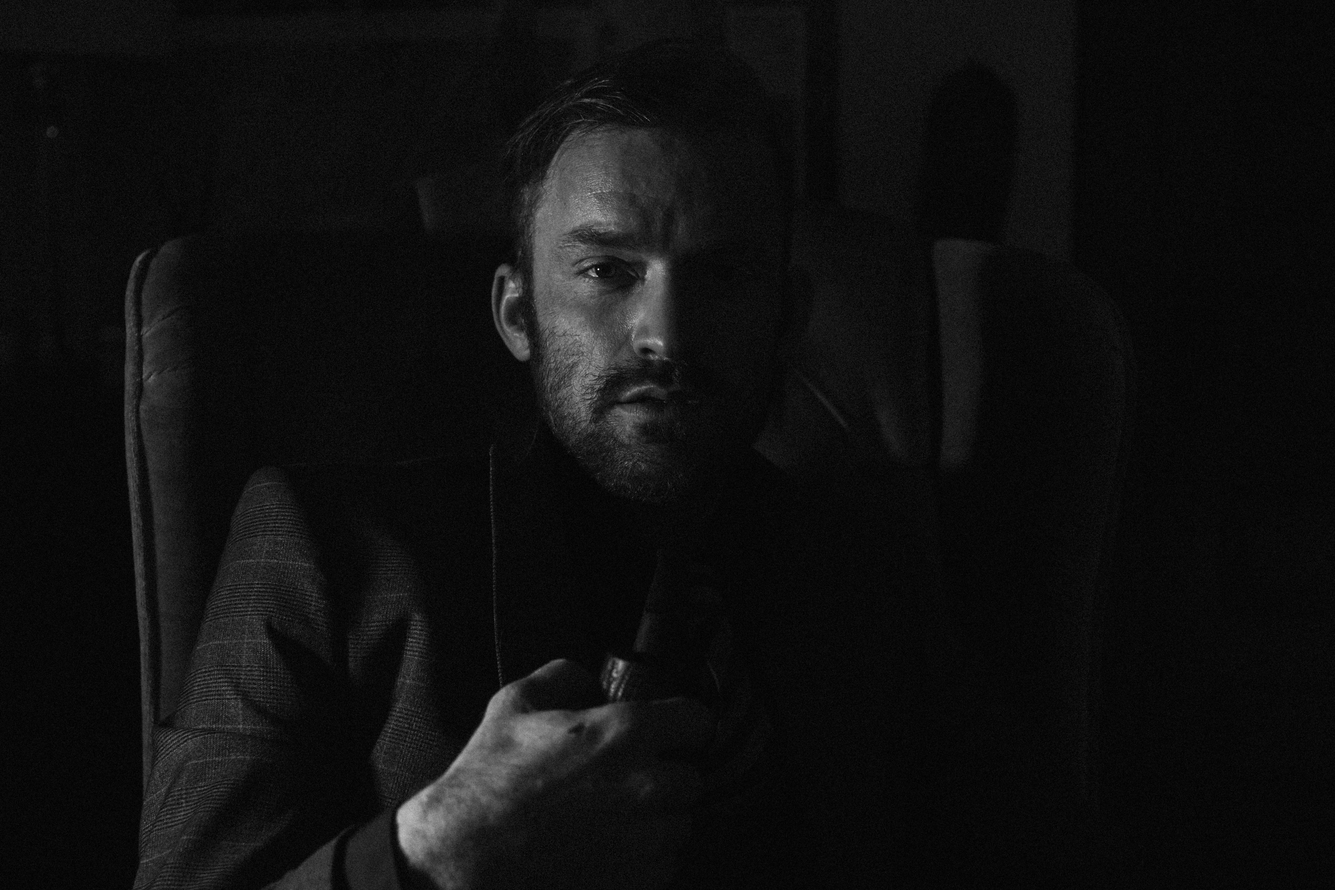
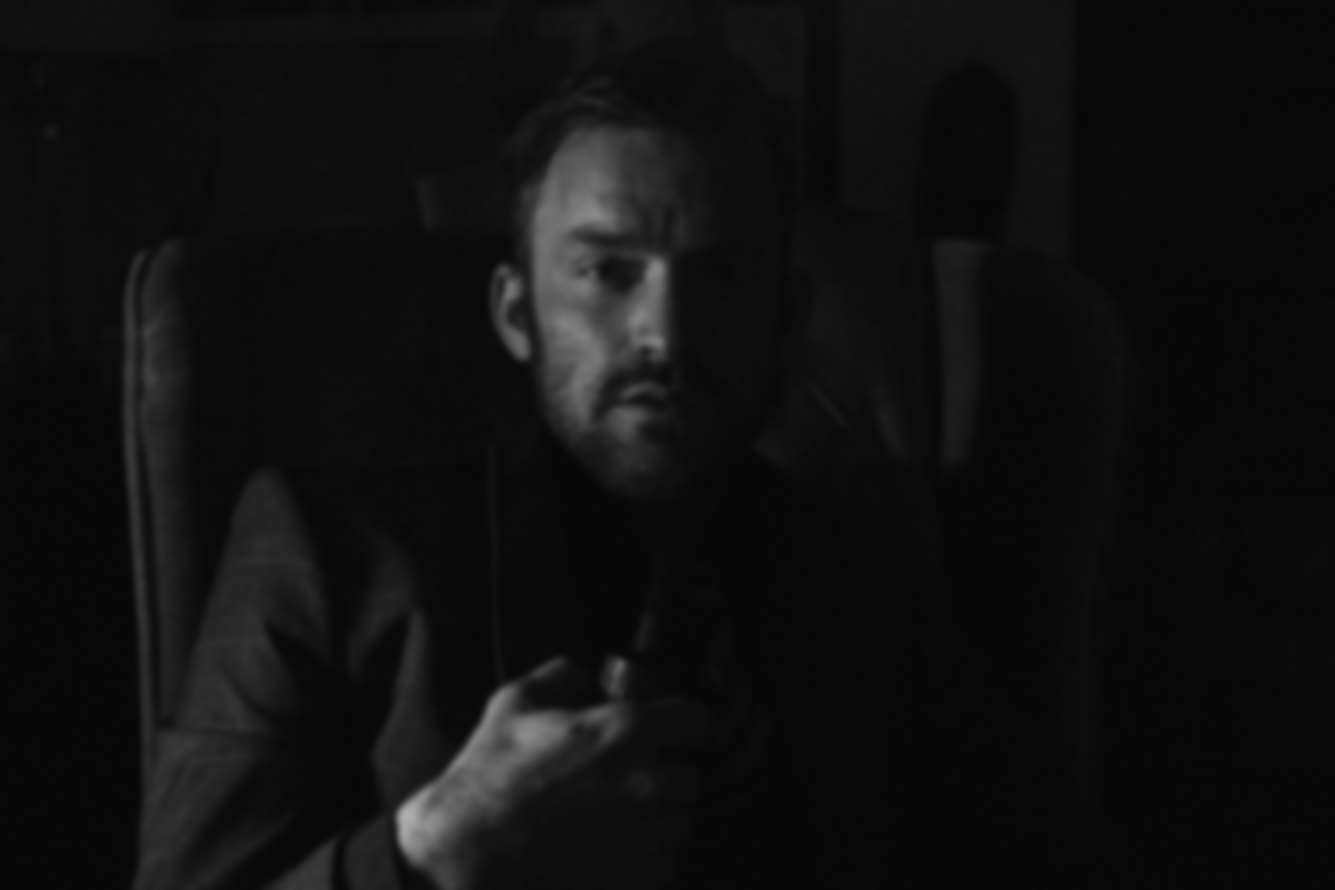
Redesigned the landing page

diff --git a/client/src/Pages/home.tsx b/client/src/Pages/home.tsx
@@ -7,25 +7,27 @@ const Home = () => {
   return (
     <div className="w-full h-screen flex flex-col">
       <Nav />
-      <div className="h-full grid grid-rows-1 grid-cols-6">
-        <div className="col-span-4 lg:col-span-2 flex justify-center items-start pl-10 pb-40 flex-col gap-10">
-          <div className="flex flex-col gap-5 after:w-full after:bg-black after:h-[1px] font-[600]">
-            <h1 className="playfair font-thin uppercase text-3xl tracking-wider italic">
+      <div className="h-full grid grid-rows-1 grid-cols-1 landing-page bg-cover bg-center">
+        <div className=" flex justify-center items-start pl-10 pt-10 md:pl-32 pb-40 flex-col gap-10 w-3/4 lg:w-2/4">
+          <div className="flex flex-col gap-5 after:w-full after:bg-white after:h-[1px] font-[600]">
+            <h1 className="playfair font-thin uppercase text-2xl md:text-4xl tracking-wider  text-white">
               Your style
             </h1>
-            <h2 className="playfair font-thin italic text-3xl uppercase tracking-wider">
+            <h2 className="playfair font-thin text-2xl md:text-4xl uppercase tracking-wider text-white">
               is what you choose.
             </h2>
           </div>
-          <p className="-mt-[20px] text-md md:text-lg font-thin">
-            Lorem ipsum dolor sit amet consectetur adipisicing elit. Saepe minus
-            cupiditate dicta! Corrupti, omnis quidem.
+          <p className="-mt-[20px] text-md md:text-lg font-thin text-white lg:w-3/4">
+            Lorem ipsum dolor sit, amet consectetur adipisicing elit. Illum sit
+            vero asperiores perspiciatis iste ducimus commodi quam doloremque
+            non voluptates.
           </p>
           <Link to="/shop">
-            <PrimaryBtn>Shop Now</PrimaryBtn>
+            <button className="playfair tracking-wider bg-[#eee] text-[#222] uppercase px-7 py-3 rounded-sm transition  hover:bg-[#111] hover:border hover:text-[#fff] hover:border-[#222] ">
+              Shop Now
+            </button>
           </Link>
         </div>
-        <div className="landing-page bg-clip-path w-full bg-contain xl:bg-cover bg-right bg-no-repeat h-full col-span-3 lg:col-span-4"></div>
       </div>
       <Footer />
     </div>

diff --git a/client/src/index.css b/client/src/index.css
@@ -21,7 +21,7 @@
 }
 
 .landing-page {
-  background-image: url(../public/assets/images/landing-page-img.jpg);
+  background-image: url(../assets/images/landing-page-img.jpg);
 }
 
 body {
